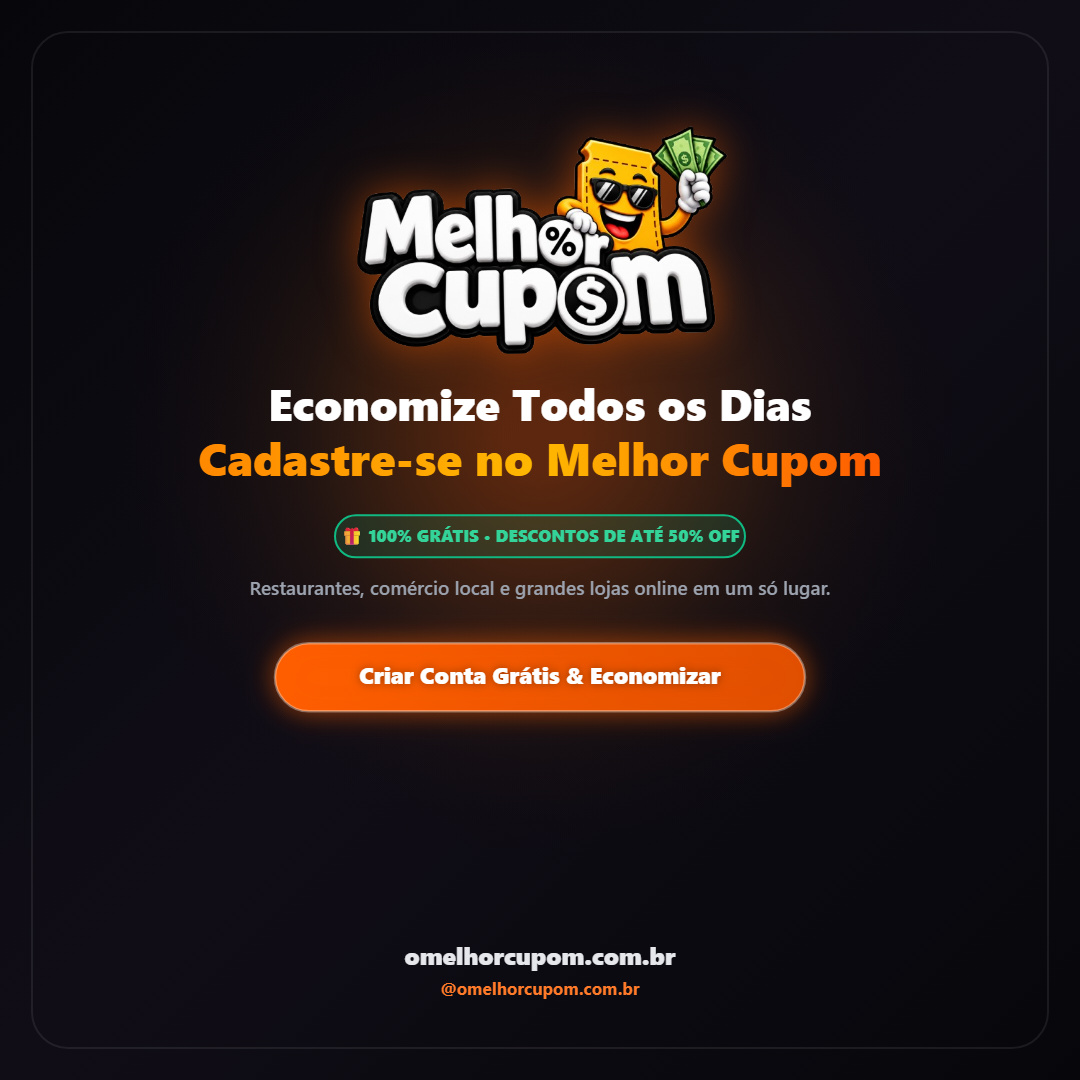
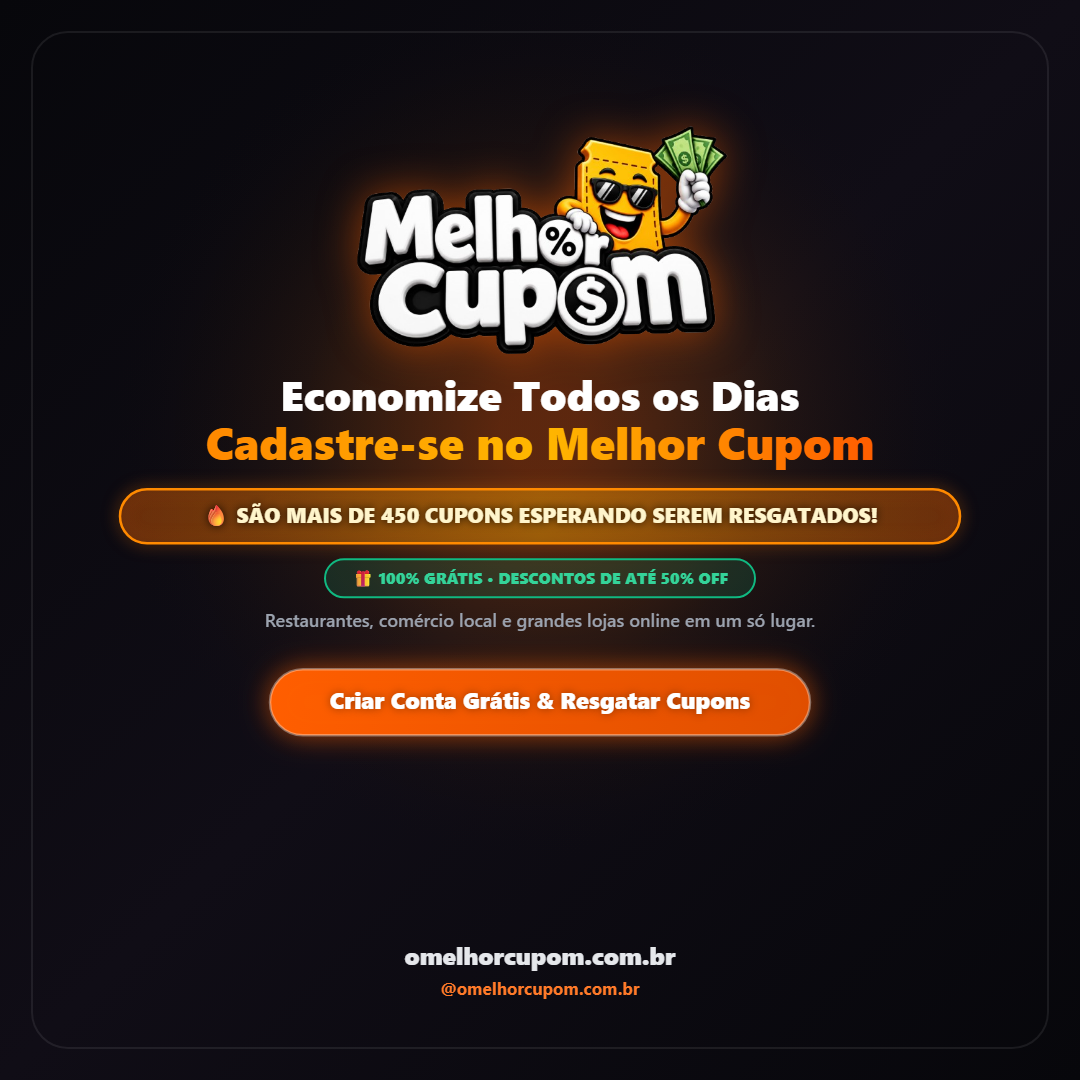
feat(flyer): dar grande enfase em mais de 450 cupons esperando serem resgatados

Changed region(s): [[0.0917, 0.3361, 0.9167, 0.7028]]

diff --git a/src/components/BrandMediaKitSection.jsx b/src/components/BrandMediaKitSection.jsx
@@ -281,31 +281,61 @@ export const BrandMediaKitSection = ({ compact = false }) => {
     }
 
     // 4. Headline Principal Direta e Forte
-    const headStartY = isStory ? logoBottomY + 115 : logoBottomY + 46;
+    const headStartY = isStory ? logoBottomY + 95 : logoBottomY + 36;
     ctx.save();
     ctx.textAlign = 'center';
     ctx.textBaseline = 'middle';
 
     // "Economize Todos os Dias"
     ctx.fillStyle = '#FFFFFF';
-    ctx.font = isStory ? '900 68px "Inter", "Segoe UI", sans-serif' : '900 44px "Inter", "Segoe UI", sans-serif';
+    ctx.font = isStory ? '900 64px "Inter", "Segoe UI", sans-serif' : '900 42px "Inter", "Segoe UI", sans-serif';
     ctx.fillText('Economize Todos os Dias', width / 2, headStartY);
 
     // "Cadastre-se no Melhor Cupom" (Gradiente Laranja Vibrante)
-    const line2Y = headStartY + (isStory ? 84 : 54);
+    const line2Y = headStartY + (isStory ? 76 : 48);
     const grad = ctx.createLinearGradient(width * 0.2, line2Y, width * 0.8, line2Y);
     grad.addColorStop(0, '#FF8A00');
     grad.addColorStop(0.5, '#FFB800');
     grad.addColorStop(1, '#FF5F00');
     ctx.fillStyle = grad;
-    ctx.font = isStory ? '900 70px "Inter", "Segoe UI", sans-serif' : '900 46px "Inter", "Segoe UI", sans-serif';
+    ctx.font = isStory ? '900 68px "Inter", "Segoe UI", sans-serif' : '900 45px "Inter", "Segoe UI", sans-serif';
     ctx.fillText('Cadastre-se no Melhor Cupom', width / 2, line2Y);
     ctx.restore();
 
-    // 5. Selo Elegante e Minimalista: "🎁 100% GRÁTIS • ATÉ 50% OFF"
-    const pillY = line2Y + (isStory ? 85 : 52);
-    const pillW = isStory ? 540 : 410;
-    const pillH = isStory ? 58 : 42;
+    // 5. GRANDE DESTAQUE DE IMPACTO: "🔥 SÃO MAIS DE 450 CUPONS ESPERANDO SEREM RESGATADOS!"
+    const badgeY = line2Y + (isStory ? 70 : 42);
+    const badgeW = isStory ? 890 : 840;
+    const badgeH = isStory ? 72 : 54;
+    const badgeX = (width - badgeW) / 2;
+
+    ctx.save();
+    const badgeGrad = ctx.createLinearGradient(badgeX, badgeY, badgeX + badgeW, badgeY + badgeH);
+    badgeGrad.addColorStop(0, 'rgba(255, 95, 0, 0.28)');
+    badgeGrad.addColorStop(0.5, 'rgba(255, 184, 0, 0.32)');
+    badgeGrad.addColorStop(1, 'rgba(255, 95, 0, 0.28)');
+    ctx.fillStyle = badgeGrad;
+    ctx.strokeStyle = '#FF8A00';
+    ctx.lineWidth = isStory ? 3 : 2.5;
+    ctx.shadowColor = 'rgba(255, 120, 0, 0.55)';
+    ctx.shadowBlur = isStory ? 24 : 16;
+    ctx.beginPath();
+    ctx.roundRect(badgeX, badgeY, badgeW, badgeH, badgeH / 2);
+    ctx.fill();
+    ctx.stroke();
+
+    ctx.fillStyle = '#FFF5CC';
+    ctx.shadowColor = 'rgba(0, 0, 0, 0.8)';
+    ctx.shadowBlur = 8;
+    ctx.font = isStory ? '900 27px "Inter", "Segoe UI", sans-serif' : '900 21px "Inter", "Segoe UI", sans-serif';
+    ctx.textAlign = 'center';
+    ctx.textBaseline = 'middle';
+    ctx.fillText('🔥 SÃO MAIS DE 450 CUPONS ESPERANDO SEREM RESGATADOS!', width / 2, badgeY + badgeH / 2 + 1);
+    ctx.restore();
+
+    // 6. Selo Elegante e Minimalista: "🎁 100% GRÁTIS • ATÉ 50% OFF"
+    const pillY = badgeY + badgeH + (isStory ? 24 : 16);
+    const pillW = isStory ? 540 : 430;
+    const pillH = isStory ? 52 : 38;
     const pillX = (width - pillW) / 2;
 
     ctx.save();
@@ -318,25 +348,25 @@ export const BrandMediaKitSection = ({ compact = false }) => {
     ctx.stroke();
 
     ctx.fillStyle = '#34D399';
-    ctx.font = isStory ? '900 24px "Inter", "Segoe UI", sans-serif' : '900 17px "Inter", "Segoe UI", sans-serif';
+    ctx.font = isStory ? '900 22px "Inter", "Segoe UI", sans-serif' : '900 16px "Inter", "Segoe UI", sans-serif';
     ctx.textAlign = 'center';
     ctx.textBaseline = 'middle';
     ctx.fillText('🎁 100% GRÁTIS • DESCONTOS DE ATÉ 50% OFF', width / 2, pillY + pillH / 2 + 1);
     ctx.restore();
 
-    // 6. Subtítulo Limpo
-    const subY = pillY + pillH + (isStory ? 65 : 38);
+    // 7. Subtítulo Limpo
+    const subY = pillY + pillH + (isStory ? 50 : 30);
     ctx.save();
     ctx.textAlign = 'center';
     ctx.fillStyle = '#9CA3AF';
-    ctx.font = isStory ? '600 28px "Inter", "Segoe UI", sans-serif' : '600 19px "Inter", "Segoe UI", sans-serif';
+    ctx.font = isStory ? '600 27px "Inter", "Segoe UI", sans-serif' : '600 18px "Inter", "Segoe UI", sans-serif';
     ctx.fillText('Restaurantes, comércio local e grandes lojas online em um só lugar.', width / 2, subY);
     ctx.restore();
 
     // Se for Story, card com 4 destaques
     let afterPerksY = subY;
     if (isStory) {
-      const cardY = subY + 50;
+      const cardY = subY + 44;
       const cardW = 860;
       const cardH = 290;
       const cardX = (width - cardW) / 2;
@@ -351,27 +381,27 @@ export const BrandMediaKitSection = ({ compact = false }) => {
       ctx.stroke();
 
       const perks = [
+        '🎟 Mais de 450 cupons prontos para resgate imediato',
         '🍔 Restaurantes, hamburguerias, pizzarias e lojas da sua cidade',
         '🛍 Achadinhos virais da Shopee, Magalu, Shein e Mercado Livre',
-        '🎟 Resgate cupons em 1 clique sem custo direto no celular',
-        '👑 Clube VIP com ofertas exclusivas e descontos turbinados'
+        '⚡ Resgate em 1 clique sem mensalidade direto no celular'
       ];
 
       ctx.textAlign = 'left';
       ctx.textBaseline = 'middle';
       ctx.font = '600 25px "Inter", "Segoe UI", sans-serif';
       perks.forEach((perk, idx) => {
-        ctx.fillStyle = '#E5E7EB';
+        ctx.fillStyle = idx === 0 ? '#FFE082' : '#E5E7EB';
         ctx.fillText(perk, cardX + 44, cardY + 48 + (idx * 64));
       });
       ctx.restore();
       afterPerksY = cardY + cardH;
     }
 
-    // 7. Botão de Ação Sofisticado e Limpo
-    const btnY = isStory ? afterPerksY + 65 : subY + 48;
-    const btnW = isStory ? 680 : 530;
-    const btnH = isStory ? 94 : 68;
+    // 8. Botão de Ação Sofisticado e Limpo
+    const btnY = isStory ? afterPerksY + 58 : subY + 42;
+    const btnW = isStory ? 680 : 540;
+    const btnH = isStory ? 92 : 66;
     const btnX = (width - btnW) / 2;
 
     ctx.save();
@@ -395,7 +425,7 @@ export const BrandMediaKitSection = ({ compact = false }) => {
     ctx.font = isStory ? '900 32px "Inter", "Segoe UI", sans-serif' : '900 23px "Inter", "Segoe UI", sans-serif';
     ctx.textAlign = 'center';
     ctx.textBaseline = 'middle';
-    ctx.fillText('Criar Conta Grátis & Economizar', width / 2, btnY + btnH / 2);
+    ctx.fillText('Criar Conta Grátis & Resgatar Cupons', width / 2, btnY + btnH / 2);
     ctx.restore();
 
     // 8. Rodapé Minimalista
@@ -607,17 +637,18 @@ export const BrandMediaKitSection = ({ compact = false }) => {
     markDownloaded('flyer-svg');
   };
 
-  const userFlyerCaption = `🎟 *ECONOMIZE EM DEZENAS DE LOJAS COM O MELHOR CUPOM!* 🔥✨
+  const userFlyerCaption = `🎟 *SÃO MAIS DE 450 CUPONS ESPERANDO SEREM RESGATADOS!* 🔥✨
 
-Você sabia que dá pra resgatar cupons de desconto 100% grátis em restaurantes, lanchonetes e serviços da nossa cidade, além de grandes lojas da internet (Shopee, Magalu, Shein e Mercado Livre)?
+Você sabia que no Melhor Cupom são mais de 450 cupons de desconto ativos esperando por você? Dá pra economizar em restaurantes, hamburguerias, pizzarias e serviços da nossa cidade, além de grandes lojas da internet (Shopee, Magalu, Shein e Mercado Livre)!
 
 🎁 *CADASTRO 100% GRATUITO:*
+✅ Mais de 450 cupons prontos para resgate imediato
 ✅ Economize até 50% OFF na sua conta
 ✅ Sem mensalidade, resgate direto pelo celular
 ✅ Apresente o cupom no balcão ou use online
 ✅ Clube VIP com ofertas exclusivas e secretas
 
-📲 *Cadastre-se grátis em menos de 1 minuto:*
+📲 *Cadastre-se grátis em menos de 1 minuto e garanta seus cupons:*
 👉 https://omelhorcupom.com.br
 
 📢 Siga nosso Instagram oficial: *@omelhorcupom.com.br*`;

diff --git a/src/components/PromotionalKit.jsx b/src/components/PromotionalKit.jsx
@@ -929,7 +929,7 @@ export const AdminPromoManager = ({ stores = [], showToast = () => {} }) => {
     if (selectedStoreId === 'promo_cadastro_usuario') {
       const activeHandle = instagramSession?.username || '@omelhorcupom.com.br';
       setCustomCaption(
-        `🎟 *ECONOMIZE EM DEZENAS DE LOJAS COM O MELHOR CUPOM!* 🔥✨\n\nVocê sabia que dá pra resgatar cupons de desconto 100% grátis em restaurantes, lanchonetes e serviços da nossa cidade, além de grandes lojas da internet (Shopee, Magalu, Shein e Mercado Livre)?\n\n🎁 *CADASTRO 100% GRATUITO:*\n✅ Economize até 50% OFF na sua conta\n✅ Sem mensalidade, resgate direto pelo celular\n✅ Apresente o cupom no balcão ou use online\n✅ Clube VIP com ofertas exclusivas e secretas\n\n👉 Acesse o link da nossa bio ${activeHandle} ou acesse:\nhttps://www.omelhorcupom.com.br\n\n#MelhorCupom #Economia #Descontos #CuponsGratis #ComercioLocal #Restaurantes #Shopee #Magalu #Shein`
+        `🎟 *SÃO MAIS DE 450 CUPONS ESPERANDO SEREM RESGATADOS!* 🔥✨\n\nVocê sabia que no Melhor Cupom são mais de 450 cupons de desconto ativos esperando por você? Dá pra economizar em restaurantes, hamburguerias, pizzarias e serviços da nossa cidade, além de grandes lojas da internet (Shopee, Magalu, Shein e Mercado Livre)!\n\n🎁 *CADASTRO 100% GRATUITO:*\n✅ Mais de 450 cupons prontos para resgate imediato\n✅ Economize até 50% OFF na sua conta\n✅ Sem mensalidade, resgate direto pelo celular\n✅ Apresente o cupom no balcão ou use online\n✅ Clube VIP com ofertas exclusivas e secretas\n\n👉 Acesse o link da nossa bio ${activeHandle} ou acesse:\nhttps://www.omelhorcupom.com.br\n\n#MelhorCupom #Economia #Descontos #CuponsGratis #ComercioLocal #Restaurantes #Shopee #Magalu #Shein`
       );
       return;
     }

diff --git a/src/components/PartnerPromoArtsSection.jsx b/src/components/PartnerPromoArtsSection.jsx
@@ -40,17 +40,18 @@ export const PartnerPromoArtsSection = ({ compact = false }) => {
     ? '/artes/folder-cadastro-usuario-feed.png'
     : '/artes/folder-seja-parceiro-feed.png';
 
-  const userCaptionText = `🎟 *ECONOMIZE EM DEZENAS DE LOJAS COM O MELHOR CUPOM!* 🔥✨
+  const userCaptionText = `🎟 *SÃO MAIS DE 450 CUPONS ESPERANDO SEREM RESGATADOS!* 🔥✨
 
-Você sabia que dá pra resgatar cupons de desconto 100% grátis em restaurantes, lanchonetes e serviços da nossa cidade, além de grandes lojas da internet (Shopee, Magalu, Shein e Mercado Livre)?
+Você sabia que no Melhor Cupom são mais de 450 cupons de desconto ativos esperando por você? Dá pra economizar em restaurantes, hamburguerias, pizzarias e serviços da nossa cidade, além de grandes lojas da internet (Shopee, Magalu, Shein e Mercado Livre)!
 
 🎁 *CADASTRO 100% GRATUITO:*
+✅ Mais de 450 cupons prontos para resgate imediato
 ✅ Economize até 50% OFF na sua conta
 ✅ Sem mensalidade, resgate direto pelo celular
 ✅ Apresente o cupom no balcão ou use online
 ✅ Clube VIP com ofertas exclusivas e secretas
 
-👉 *Cadastre-se grátis pelo meu link exclusivo:*
+👉 *Cadastre-se grátis pelo meu link exclusivo e garanta seus cupons:*
 ${referralLink}
 
 #MelhorCupom #Economia #Descontos #CuponsGratis #ComercioLocal`;
